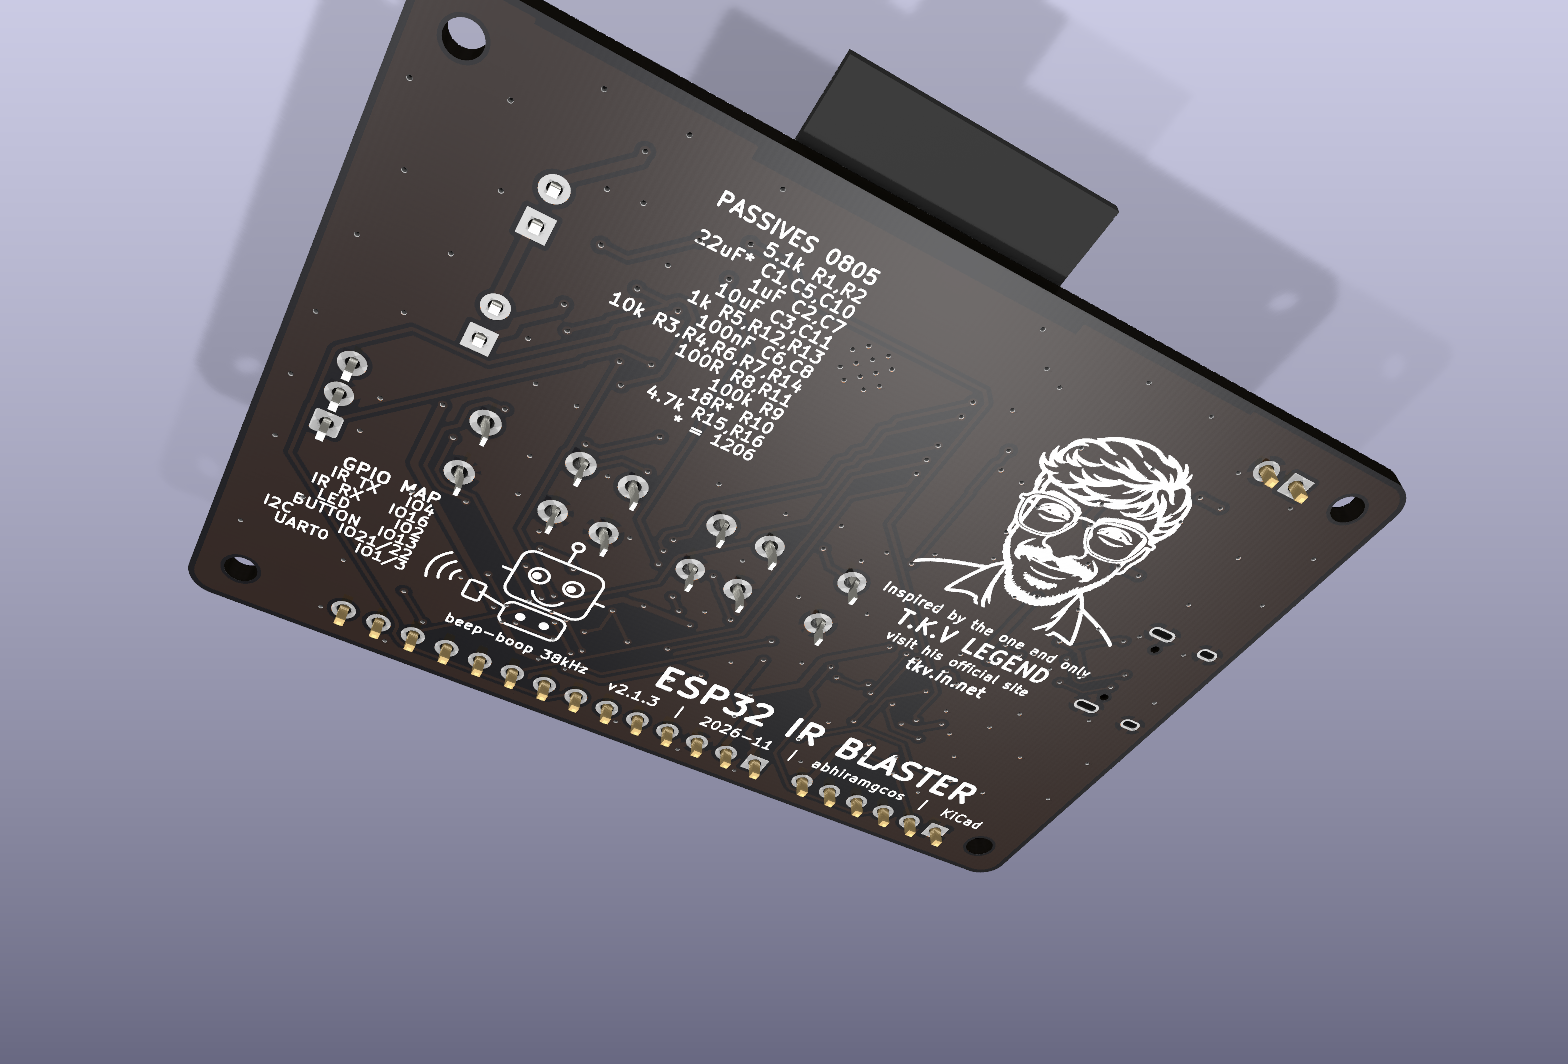
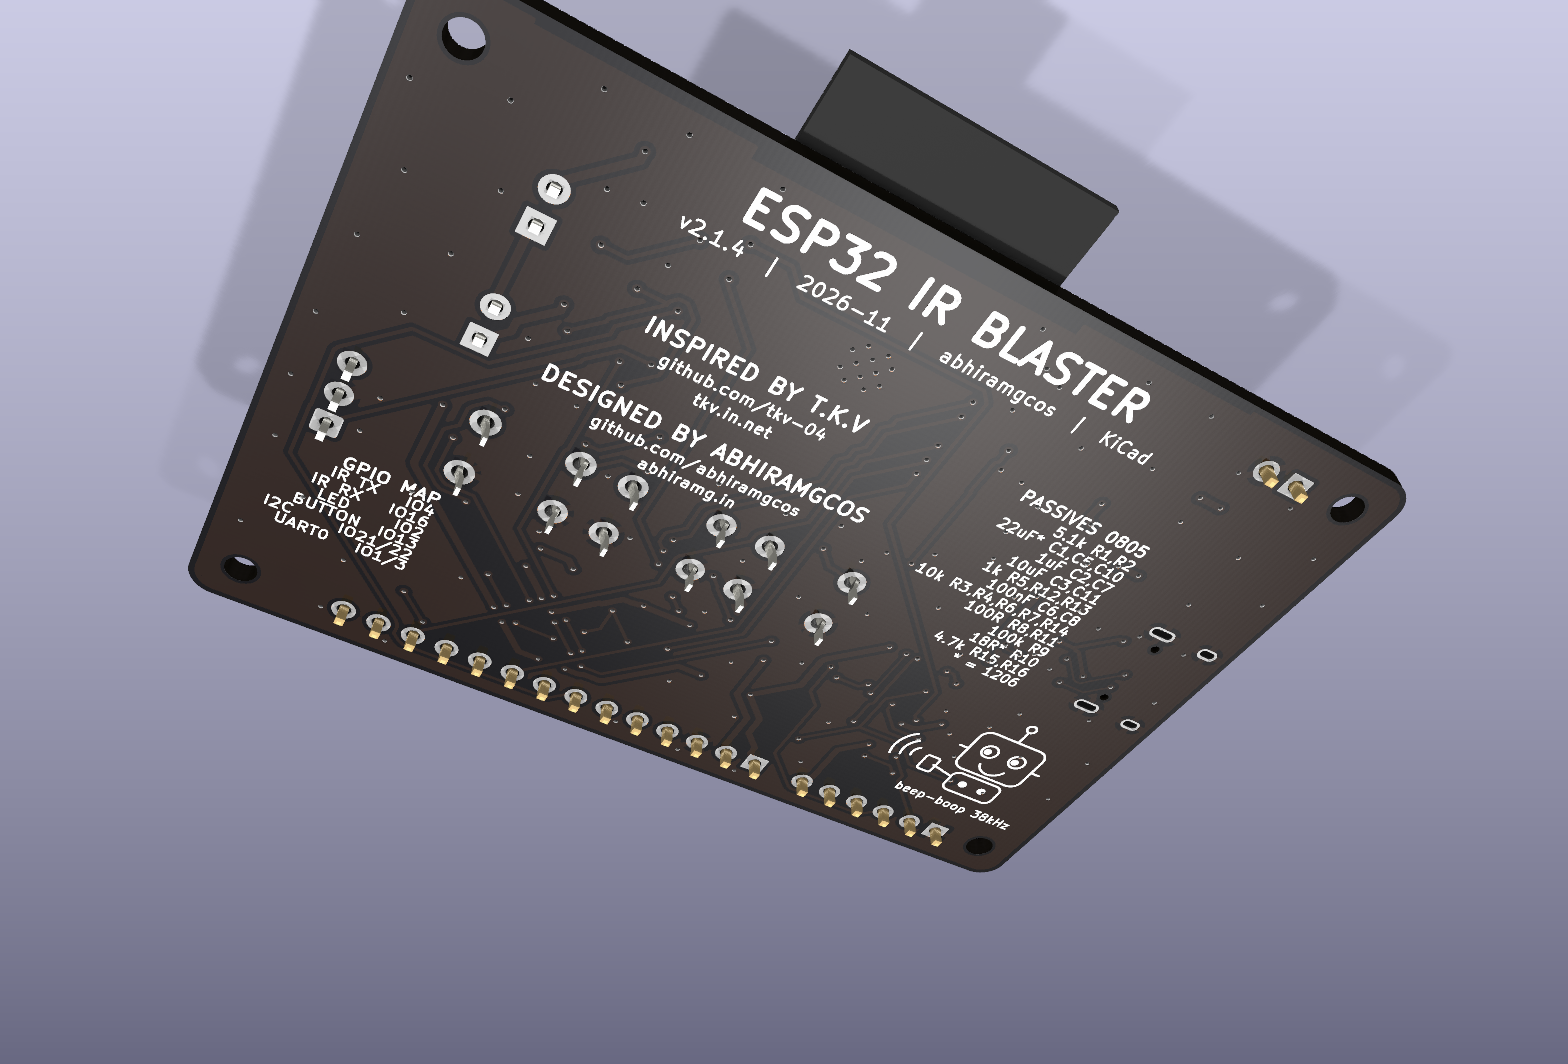
docs: credits section, v2.1.4 renders and changelog

diff --git a/README.md b/README.md
@@ -11,7 +11,7 @@ box, fan, LED strip) and plays them back from your phone, a script or Home Assis
 
 ![ESP32 IR Blaster, 3D render](docs/img/v2.1_3d_top_iso.png)
 
-<sub>KiCad 3D render of the v2.1.3 board, not a photo. The USB-C model is a stand-in for the HRO part.</sub>
+<sub>KiCad 3D render of the v2.1.4 board, not a photo. The USB-C model is a stand-in for the HRO part.</sub>
 
 ## Features
 
@@ -46,8 +46,9 @@ box, fan, LED strip) and plays them back from your phone, a script or Home Assis
 |---|---|
 | ![top](docs/img/v2.1_3d_top.png) | ![bottom](docs/img/v2.1_3d_bottom.png) |
 
-<sub>The back carries a silkscreen portrait tribute: *"Inspired by the one and only T.K.V legend"*. Visit his
-site, [tkv.in.net](https://tkv.in.net).</sub>
+<sub>The back carries the credits: inspired by T.K.V ([github.com/tkv-04](https://github.com/tkv-04),
+[tkv.in.net](https://tkv.in.net)), designed by abhiramgcos ([github.com/abhiramgcos](https://github.com/abhiramgcos),
+[abhiramg.in](https://abhiramg.in)).</sub>
 
 ![IR edge](docs/img/v2.1_3d_ir_edge.png)
 
@@ -191,7 +192,7 @@ The remaining DRC **warnings** are expected:
 
 ## Status
 
-* v2.1.3 hardware and v2.1.1 firmware are complete and verified by the checks above. **No board has been
+* v2.1.4 hardware and v2.1.1 firmware are complete and verified by the checks above. **No board has been
   manufactured yet**, so treat the first build as a prototype run.
 * Every SMD part has a verified, in-stock LCSC number, so JLCPCB's BOM tool matches the whole BOM
   automatically. The through-hole parts (IR LEDs, TSOP, buttons, headers) are left for hand soldering.
@@ -208,6 +209,11 @@ The remaining DRC **warnings** are expected:
 | [docs/TROUBLESHOOTING.md](docs/TROUBLESHOOTING.md) | Power, USB, flashing, boot, Wi-Fi and IR debugging |
 | [docs/BUILD_LOG.md](docs/BUILD_LOG.md) | How the board was designed, step by step, with images |
 | [CHANGELOG.md](CHANGELOG.md) | Version history (v1 → v2.0 → v2.1) |
+
+## Credits
+
+* Designed by **abhiramgcos**: [github.com/abhiramgcos](https://github.com/abhiramgcos) · [abhiramg.in](https://abhiramg.in)
+* Inspired by **T.K.V**: [github.com/tkv-04](https://github.com/tkv-04) · [tkv.in.net](https://tkv.in.net)
 
 ## License
 

diff --git a/CHANGELOG.md b/CHANGELOG.md
@@ -2,6 +2,14 @@
 
 Hardware and firmware share one version number. Hardware revisions are printed on the PCB silkscreen.
 
+## [2.1.4] - 2026-11-20
+
+Silkscreen only; copper, drills, BOM and pick-and-place are unchanged from 2.1.3.
+
+* Back: the portrait is replaced by text credits: *Inspired by T.K.V* (github.com/tkv-04, tkv.in.net) and
+  *Designed by abhiramgcos* (github.com/abhiramgcos, abhiramg.in). The portrait art and tracing script were
+  removed from the repository.
+
 ## [2.1.3] - 2026-11-20
 
 * Buttons (SW1–SW3) and the pull-up/LED row below them moved 2 mm down, away from the ESP32. The gap from
@@ -100,6 +108,7 @@ JLCPCB BOM/CPL files.
 Original board. Only fab files exist; they are kept in `v1/fab/`. The review is in
 [docs/v1-review.md](docs/v1-review.md).
 
+[2.1.4]: https://github.com/abhiramgcos/Esp_ir_board/releases/tag/v2.1.4
 [2.1.3]: https://github.com/abhiramgcos/Esp_ir_board/releases/tag/v2.1.3
 [2.1.2]: https://github.com/abhiramgcos/Esp_ir_board/releases/tag/v2.1.2
 [2.1.1]: https://github.com/abhiramgcos/Esp_ir_board/releases/tag/v2.1.1

diff --git a/docs/COMPONENTS.md b/docs/COMPONENTS.md
@@ -1,6 +1,6 @@
 # Components: what each part does, what to buy, and safe alternatives
 
-**Board:** ESP32 IR Blaster/Receiver v2.1.3, 68 × 48 mm, 2 layers, 51 parts.
+**Board:** ESP32 IR Blaster/Receiver v2.1.4, 68 × 48 mm, 2 layers, 51 parts.
 
 The machine-readable BOM is in `fab/BOM_full.csv`; the JLCPCB-format BOM and pick-and-place files are in
 `fab/`. Values come from [`gen/circuit.py`](../gen/circuit.py), the single source of truth for the design.
